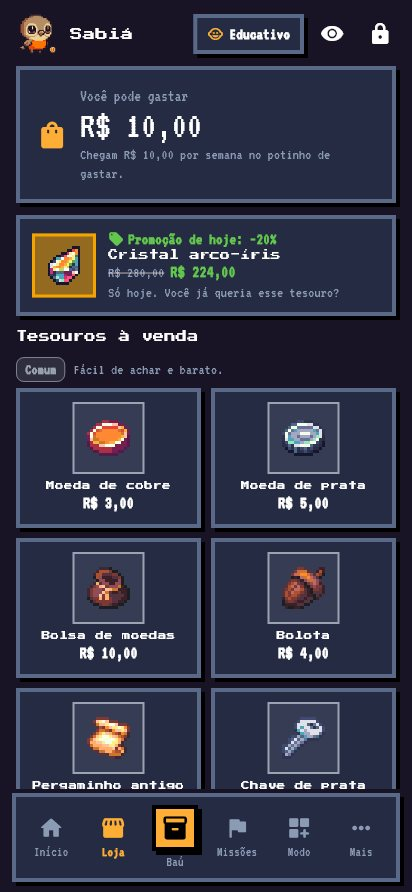
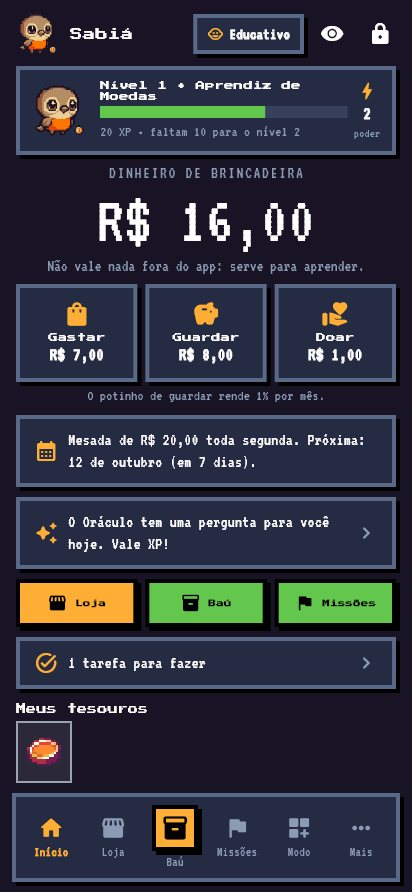
feat: app 0.2.0 no portfolio (visual Tecnico, modo motorista, educativo como RPG)
- Ficha do app: quatro modos, modo motorista, educativo como RPG e sete visuais.
- Quatro telas dos quatro modos (pessoal em Tecnico, empreendimento, motorista, educativo).
- Link, versao, tamanho e hash apontam para a versao 0.2.0.

diff --git a/index.html b/index.html
@@ -893,21 +893,23 @@ html body[data-tema="logo"] .app-baixar .btn.sec[aria-disabled="true"]{backgroun
 <i class="cota" aria-hidden="true"><em>4 telas · 412 × 892</em></i>
 <i class="mk m1" aria-hidden="true"></i><i class="mk m2" aria-hidden="true"></i>
 <div class="app-fones">
-<figure class="fone-i" style="--d:.55s"><div class="fone"><img src="img/app_pessoal.jpg" width="412" height="892" alt="Tela inicial do Controle Financeiro Privado no modo pessoal, com saldo, aviso de contas e lançamentos do mês" loading="lazy"></div><figcaption><b>Modo pessoal</b><br>visual Minimalista</figcaption></figure>
+<figure class="fone-i" style="--d:.55s"><div class="fone"><img src="img/app_pessoal.jpg" width="412" height="892" alt="Tela inicial do Controle Financeiro Privado no modo pessoal e no visual Técnico, com fundo de planta azul, saldo, aviso de contas e lançamentos do mês" loading="lazy"></div><figcaption><b>Modo pessoal</b><br>visual Técnico</figcaption></figure>
 <figure class="fone-i" style="--d:.7s"><div class="fone"><img src="img/app_negocio.jpg" width="412" height="892" alt="Tela inicial do modo empreendimento, com saldo do negócio, resumo do mês e caixa das próximas semanas" loading="lazy"></div><figcaption><b>Modo empreendimento</b><br>visual Y2K</figcaption></figure>
-<figure class="fone-i" style="--d:.85s"><div class="fone"><img src="img/app_educativo.jpg" width="412" height="892" alt="Loja de tesouros do modo educativo, em pixel art" loading="lazy"></div><figcaption><b>Modo educativo</b><br>visual Pixel art</figcaption></figure>
-<figure class="fone-i" style="--d:1s"><div class="fone"><img src="img/app_rpg.jpg" width="412" height="892" alt="Tela inicial no visual Blackpixel RPG, escuro, com moldura dourada e letras de pixel" loading="lazy"></div><figcaption><b>Visual</b><br>Blackpixel RPG</figcaption></figure>
+<figure class="fone-i" style="--d:.85s"><div class="fone"><img src="img/app_motorista.jpg" width="412" height="892" alt="Tela inicial do modo motorista, com o lucro real do dia, quanto rendeu cada quilômetro e cada hora e os atalhos para registrar o dia, abastecer e ver se a corrida vale a pena" loading="lazy"></div><figcaption><b>Modo motorista</b><br>visual Minimalista</figcaption></figure>
+<figure class="fone-i" style="--d:1s"><div class="fone"><img src="img/app_educativo.jpg" width="412" height="892" alt="Tela inicial do modo educativo em pixel art, com o cartão do herói no nível 1, a barra de XP, os três potinhos e o Oráculo do dia" loading="lazy"></div><figcaption><b>Modo educativo</b><br>aventura de RPG</figcaption></figure>
 </div>
 <div class="app-tb" aria-hidden="true"><b>Projeto: Controle Financeiro Privado</b><b>Esc. 1:1</b><b>Folha 01/01</b><b>E. Silva</b></div>
 </figure>
 <div class="app-corpo">
-<div class="app-id"><img class="app-ic" src="img/app_controle_icone.png" width="72" height="72" alt="Ícone do Controle Financeiro Privado: uma barra de ouro sobre fundo azul-noite"><div><span class="etq">Android · versão <span data-app="versao">0.1.1</span></span><h3>Controle Financeiro Privado</h3><div class="tp">Finanças pessoais, de negócio e para crianças, sem internet</div></div></div>
-<p>Um app para anotar o dinheiro sem dor de cabeça: o saldo à vista, as contas que vencem e uma pergunta que eu faço antes de toda compra grande, "e se eu comprar?". Eu desenhei a interface, os seis visuais e o tutorial, e cada tela fala em português simples.</p>
+<div class="app-id"><img class="app-ic" src="img/app_controle_icone.png" width="72" height="72" alt="Ícone do Controle Financeiro Privado: uma barra de ouro sobre fundo azul-noite"><div><span class="etq">Android · versão <span data-app="versao">0.2.0</span></span><h3>Controle Financeiro Privado</h3><div class="tp">Finanças pessoais, de negócio e para crianças, sem internet</div></div></div>
+<p>Um app para anotar o dinheiro sem dor de cabeça: o saldo à vista, as contas que vencem e uma pergunta que eu faço antes de toda compra grande, "e se eu comprar?". Eu desenhei a interface, os sete visuais e o tutorial, e cada tela fala em português simples.</p>
 <ol class="app-lista">
 <li><b>Anote do seu jeito</b><span>Escreva "padaria 12,50 ontem", fale ou fotografe a nota, e o app entende o valor, o dia e a categoria.</span></li>
 <li><b>E se eu comprar?</b><span>Simula a compra, à vista ou parcelada, e mostra o saldo mês a mês antes de você gastar.</span></li>
-<li><b>Três modos</b><span>Pessoal, empreendimento (para quem está começando um negócio) e educativo, com dinheiro de brincadeira, mesada, tarefas e uma loja de tesouros colecionáveis para crianças.</span></li>
-<li><b>Seis visuais</b><span>Cute, Y2K, PC antigo, Minimalista e Blackpixel RPG para todos, e o Pixel art, que só existe no modo educativo. Cada um com apelidos de mascotes sorteados.</span></li>
+<li><b>Quatro modos</b><span>Pessoal, empreendimento (para quem está começando um negócio), motorista e educativo, para crianças. Cada modo tem o seu dinheiro e as suas ferramentas, sem se misturar.</span></li>
+<li><b>Modo motorista</b><span>Para quem roda com aplicativo de corrida ou entrega, de carro ou de moto: 40 veículos com o consumo de combustível, o lucro real por quilômetro e por hora, "vale a pena aceitar esta corrida?", etanol ou gasolina, meta do mês e aviso de manutenção. Tudo digitado por você, sem GPS.</span></li>
+<li><b>Educativo como RPG</b><span>A criança ganha XP e sobe de nível com tarefas, metas, doações e lições, veste os tesouros que compra, responde ao Oráculo do dia e derrota um chefe em cada lição. A loja se atualiza toda semana, e o jogo premia quem espera e planeja, não quem gasta.</span></li>
+<li><b>Sete visuais</b><span>Técnico (a folha de projeto da primeira tela), Cute, Y2K, PC antigo, Minimalista e Blackpixel RPG para todos, e o Pixel art, que só existe no modo educativo. Cada um com apelidos de mascotes sorteados.</span></li>
 <li><b>Tutorial com balões</b><span>Um passeio guiado diferente para cada modo, que mostra cada ferramenta e abre as telas sozinho.</span></li>
 <li><b>Seus dados só com você</b><span>Tudo fica no celular, protegido por PIN e chave de recuperação. Dá para fazer backup criptografado, e o app bloqueia prints nas telas com saldo.</span></li>
 </ol>
@@ -921,14 +923,14 @@ html body[data-tema="logo"] .app-baixar .btn.sec[aria-disabled="true"]{backgroun
 <label class="app-aceite"><input type="checkbox" id="app-aceite"><span>Li e concordo com o termo de uso.</span></label>
 <p class="app-aviso" id="app-aviso" role="status" aria-live="polite" hidden>Marque a confirmação acima para poder baixar.</p>
 </div>
-<a class="btn" id="app-apk" href="#app-termo" aria-disabled="true" data-href="https://github.com/DreamyStation/dev-app-releases/releases/download/v0.1.1/controle-financeiro-0.1.1.apk" rel="noopener">Baixar para Android · <span data-app="tamanho">58 MB</span></a>
+<a class="btn" id="app-apk" href="#app-termo" aria-disabled="true" data-href="https://github.com/DreamyStation/dev-app-releases/releases/download/v0.2.0/controle-financeiro-0.2.0.apk" rel="noopener">Baixar para Android · <span data-app="tamanho">59 MB</span></a>
 <a class="btn sec" id="app-rel" href="#app-termo" aria-disabled="true" data-href="https://github.com/DreamyStation/dev-app-releases/releases" target="_blank" rel="noopener">Ver todas as versões</a>
 <dl class="app-meta">
-<div><dt>Versão</dt><dd data-app="versao">0.1.1</dd></div>
-<div><dt>Tamanho</dt><dd data-app="tamanho">58 MB</dd></div>
+<div><dt>Versão</dt><dd data-app="versao">0.2.0</dd></div>
+<div><dt>Tamanho</dt><dd data-app="tamanho">59 MB</dd></div>
 <div><dt>Requer</dt><dd>Android 7.0 ou mais novo, 64 bits</dd></div>
 <div><dt>Publicado em</dt><dd data-app="data">5 de outubro de 2026</dd></div>
-<div><dt>SHA-256</dt><dd class="app-hash" data-app="hash">3422441d4141d06128361ee16f4d151a7bed1aa8daf196e98dc373f81b3e2a6f</dd></div>
+<div><dt>SHA-256</dt><dd class="app-hash" data-app="hash">5aef40f54816c499eb3ef96df032787a97fd4e02f893556e1185efceff8f83b9</dd></div>
 </dl>
 <h4>Como instalar</h4>
 <ol class="app-passos">
@@ -1017,7 +1019,7 @@ html body[data-tema="logo"] .app-baixar .btn.sec[aria-disabled="true"]{backgroun
 </aside>
 </article>
 <aside class="app-ponte" id="ponte-pl" aria-label="Aplicativo para Android" hidden>
-<div><b>Prefere o aplicativo?</b><span>O Controle Financeiro Privado completo, com PIN, voz, foto de nota e os três modos, está disponível para Android.</span></div>
+<div><b>Prefere o aplicativo?</b><span>O Controle Financeiro Privado completo, com PIN, voz, foto de nota e os quatro modos, está disponível para Android.</span></div>
 <a class="btn sec" href="#apps" data-vista="app">Ver o app para Android</a>
 </aside>
 <article class="app app-breve">
@@ -1137,7 +1139,7 @@ addEventListener('scroll',()=>{if(!on){on=true;requestAnimationFrame(f)}},{passi
   var apk=(r.assets||[]).filter(function(a){return /\.apk$/i.test(a.name)})[0];if(!apk)return;
   var b=document.getElementById('app-apk'),l=document.getElementById('app-rel');
   if(b)b.dataset.href=apk.browser_download_url;if(l&&r.html_url)l.dataset.href=r.html_url;liga();
-  pon('versao',String(r.tag_name||'').replace(/^v/,'')||'0.1.1');
+  pon('versao',String(r.tag_name||'').replace(/^v/,'')||'0.2.0');
   pon('tamanho',Math.round(apk.size/1048576)+' MB');
   try{pon('data',new Date(r.published_at).toLocaleDateString('pt-BR',{day:'numeric',month:'long',year:'numeric'}))}catch(e){}
   if(apk.digest)pon('hash',String(apk.digest).replace(/^sha256:/,''));
